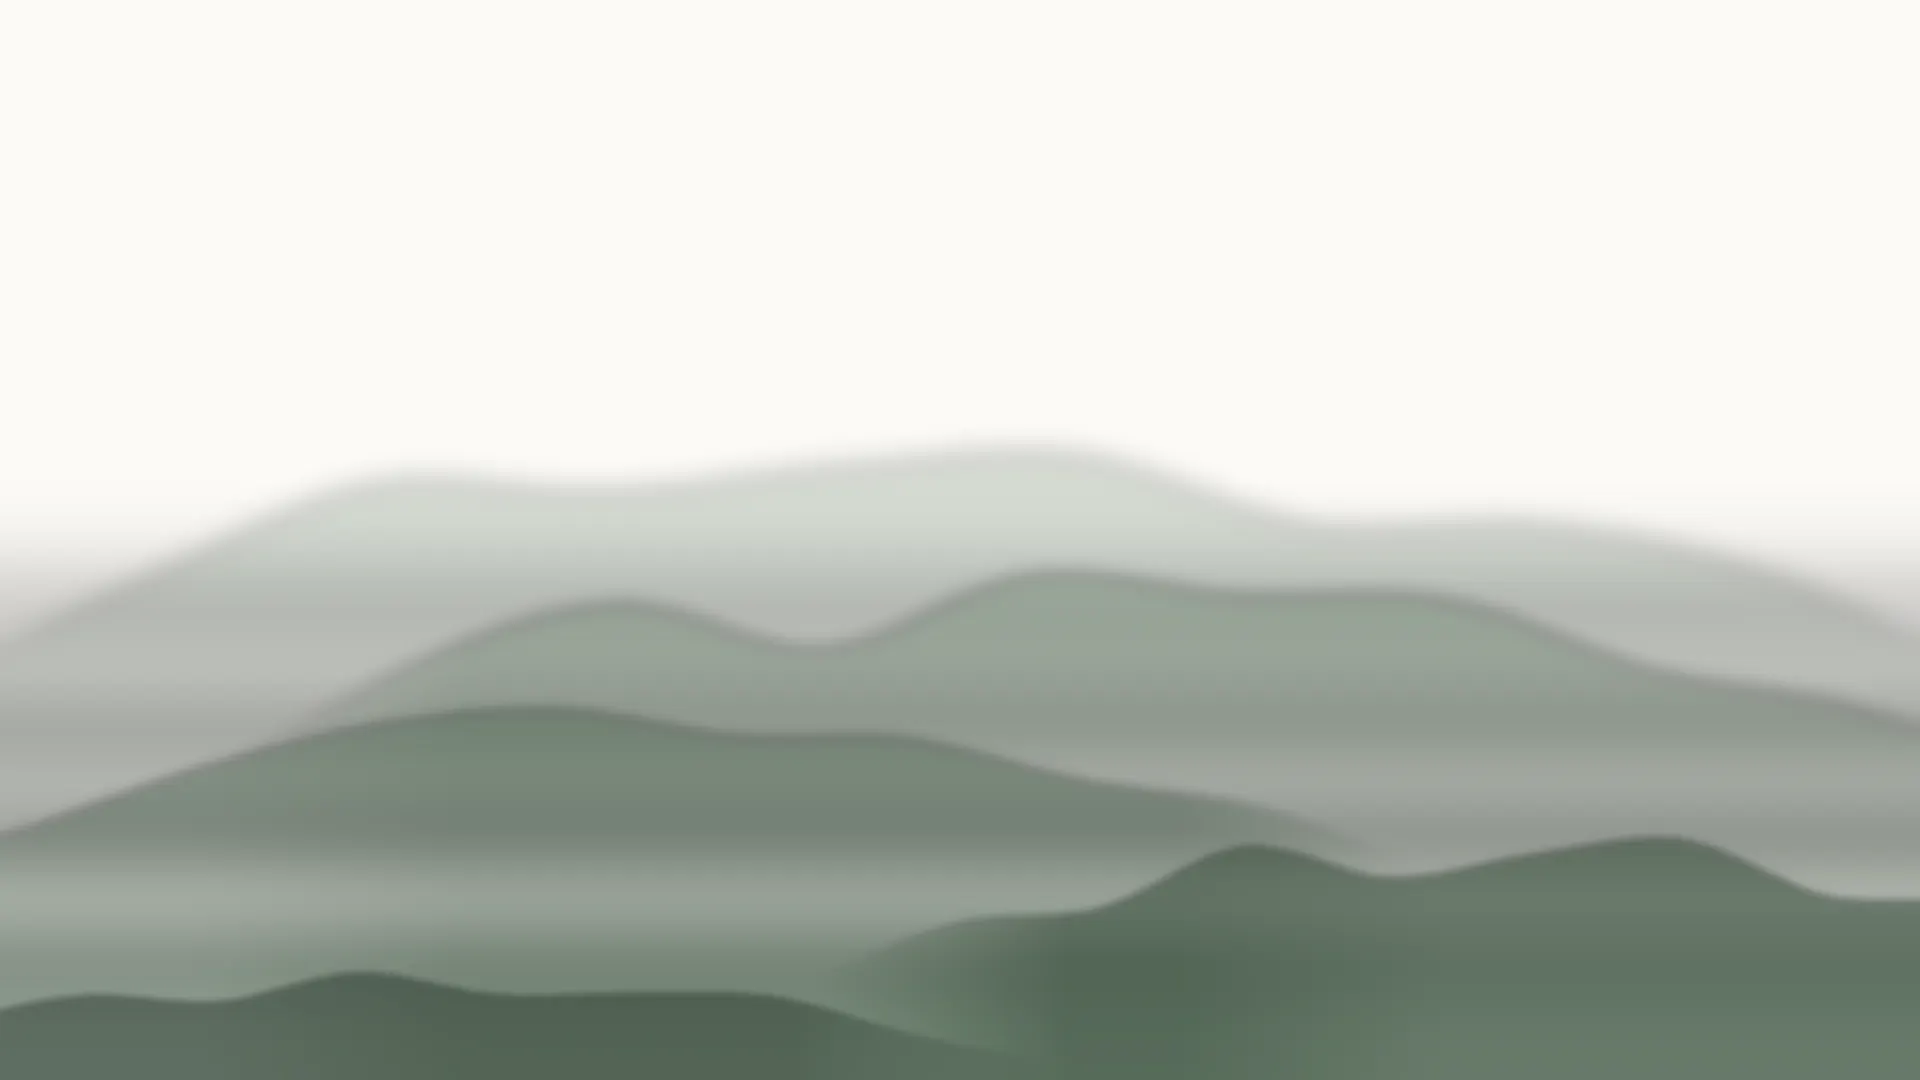
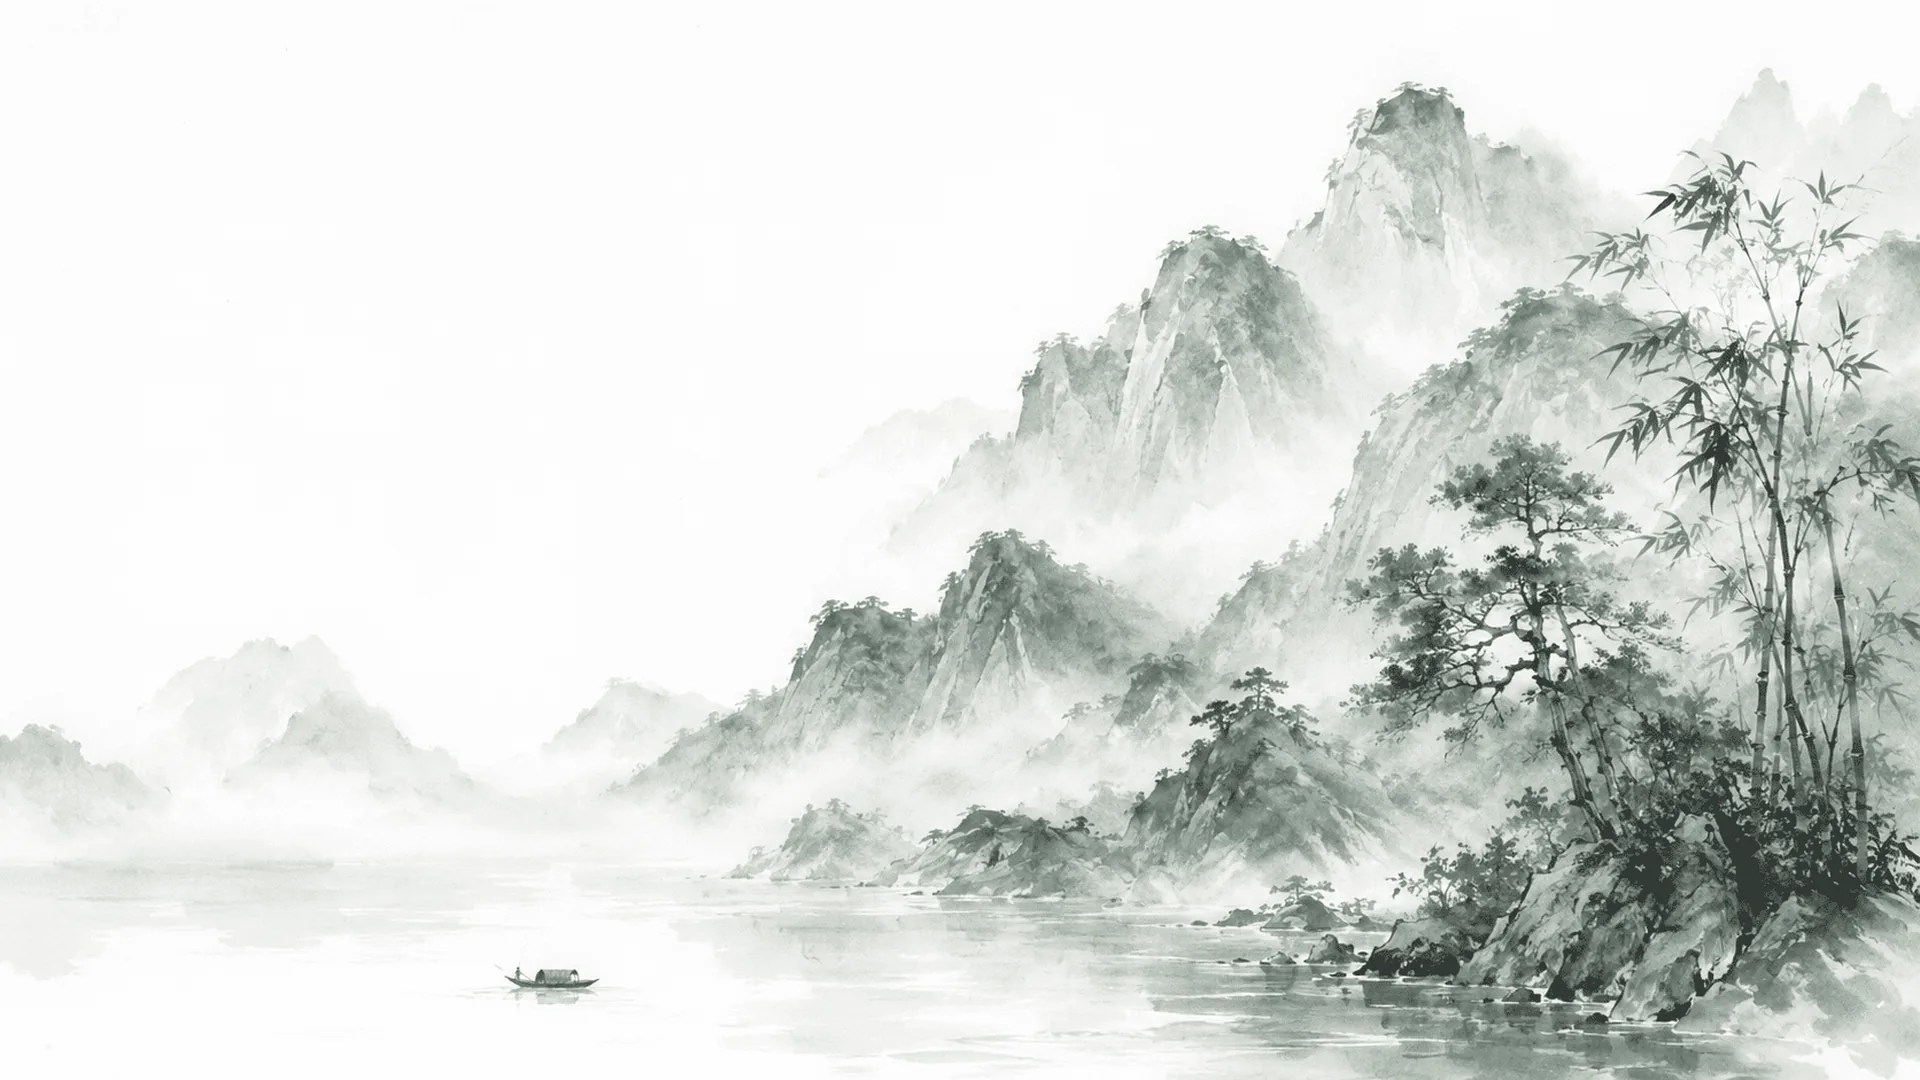
feat(mountain-ink): 換上真實水墨山水底圖，紙色再校白到 #FCFCFB
底圖
- 三張 AI 生成的水墨山水（使用者提供）取代程序化佔位圖：滿版（江面孤舟＋
  竹石，左上大片留白給標題）、扉頁（山稜集中右三分之一）、內頁（極淡遠山
  右下角）。1672x941 → 1920x1080 LANCZOS，WebP q82/80/76，合計 179KB
- 一併移除上一 commit 誤收的三個 ChatGPT 原始 PNG（原始檔不該隨
  npx skills add 分發）

紙色 #FBFAF6 → #FCFCFB
- 前一版還是偏黃。新值刻意**對齊三張底圖自身的紙色**（實測那三張的留白量到
  #FCFCFC～#FEFEFC）——舞台底色與圖的紙色必須同一階，否則圖的邊界會在舞台上
  顯出一塊色差方框。註解已寫明這條約束與「換自己的圖要跟著調」
- 連帶 --paper-rgb 252,252,251、--surface-3 #F4F4F1、--shell #E6E5E0、
  theme.json preview、gen-placeholder-art.py 的 PAPER 常數
- 文字色仍不動：對比度再升（text 14.0:1、text-2 7.1:1、text-mute 5.1:1、
  accent 6.1:1）
- scrim 濃度不調：真圖本身比佔位圖淡，三段氣壓直接成立

驗證：build OK、token cascade 正確、資產帶 hash（10/134/35 KB）、typecheck 0 錯、
lint-notes OK、主題總體積 232KB。
export 確定性：連跑三次，第 2 與第 3 次 12/12 AE=0；第 1 次僅 001-01（模板封面
骨架）在底部進度條文字有 70 px、色差 2/255 的抗鋸齒差異——首跑 webfont/資產未
進快取所致，非主題缺陷（其餘 11 頁三次全 0）

diff --git a/skills/paper-grid-slides/themes/mountain-ink/tokens.css b/skills/paper-grid-slides/themes/mountain-ink/tokens.css
@@ -23,20 +23,22 @@
 :root {
   /* ─── palette：白宣紙 + 墨綠 ───
    * 水墨的底是**白宣紙**，不是米黃牛皮紙——暖米底會讓墨綠偏土、失掉水墨該有
-   * 的清冷。#FBFAF6 是「帶一絲暖但讀作白」的宣紙白（純 #FFFFFF 在投影下會刺
-   * 眼、也少了紙的質地）。
-   * 對比度已核（相對 --surface #FBFAF6）：text 13.8:1、text-2 7.0:1、
-   * text-mute 5.0:1、accent 6.0:1，皆過 GUIDE §6.1 的 4.5:1 硬地板。
+   * 的清冷。#FCFCFB 幾乎是白、只留一絲暖，**刻意對齊 assets/ 三張底圖自身的
+   * 紙色**（那三張的留白量到 #FCFCFC～#FEFEFC）——舞台底色與圖的紙色必須同一
+   * 階，否則圖的邊界會在舞台上顯出一塊色差方框。換自己的圖時若紙色不同，這裡
+   * 與下面 --paper-rgb 要跟著調。
+   * 對比度已核（相對 --surface #FCFCFB）：text 14.0:1、text-2 7.1:1、
+   * text-mute 5.1:1、accent 6.1:1，皆過 GUIDE §6.1 的 4.5:1 硬地板。
    *
    * --paper-rgb 是同一個紙色的 rgb 三元組，給下面所有需要「紙色半透明」的
    * 地方組 rgba() 用（scrim / 飛白 / 霧靄 / 印章描邊——var() 帶不了 alpha，
    * 所以必須有這個三元組）。**改紙色時這兩個要一起改**，否則 scrim 會跟舞台
    * 底色對不上、露出一片色差。 */
-  --paper-rgb:    251, 250, 246;
-  --shell:        #E4E1D6;             /* letterbox — 較舞台深一階的冷灰紙箱色 */
-  --surface:      #FBFAF6;             /* 白宣紙 */
+  --paper-rgb:    252, 252, 251;
+  --shell:        #E6E5E0;             /* letterbox — 較舞台深一階的冷灰紙箱色 */
+  --surface:      #FCFCFB;             /* 白宣紙（對齊底圖自身的紙色） */
   --surface-2:    #FFFFFF;             /* 凸起卡片 —— 比紙面更亮才浮得起來 */
-  --surface-3:    #F2F1EA;             /* 內嵌 */
+  --surface-3:    #F4F4F1;             /* 內嵌 */
   --text:         #1F2D24;             /* 濃墨（近黑但帶綠） */
   --text-2:       #4A5B47;             /* 次要 / 正文 */
   --text-mute:    #56745A;             /* 標籤 / 眉題 —— 見下方 --ink-moss 註 */

diff --git a/skills/paper-grid-slides/themes/mountain-ink/gen-placeholder-art.py b/skills/paper-grid-slides/themes/mountain-ink/gen-placeholder-art.py
@@ -16,7 +16,7 @@ import math, random
 from PIL import Image, ImageDraw, ImageFilter
 
 W, H = 1920, 1080
-PAPER = (251, 250, 246)   # 白宣紙 #FBFAF6
+PAPER = (252, 252, 251)   # 白宣紙 #FCFCFB（要與 tokens.css 的 --surface 一致）
 
 
 def ridge_points(x0, x1, base_y, amp, seed, n=9):
